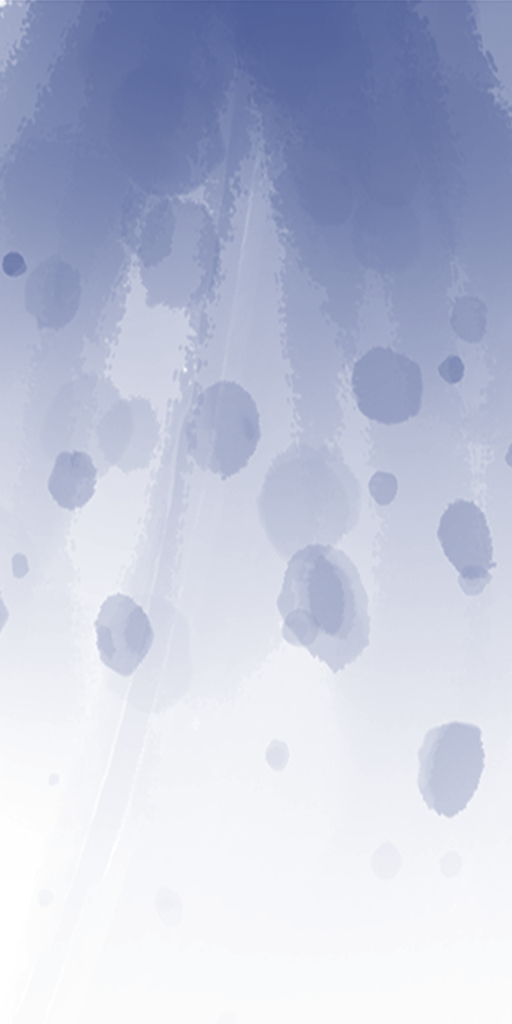
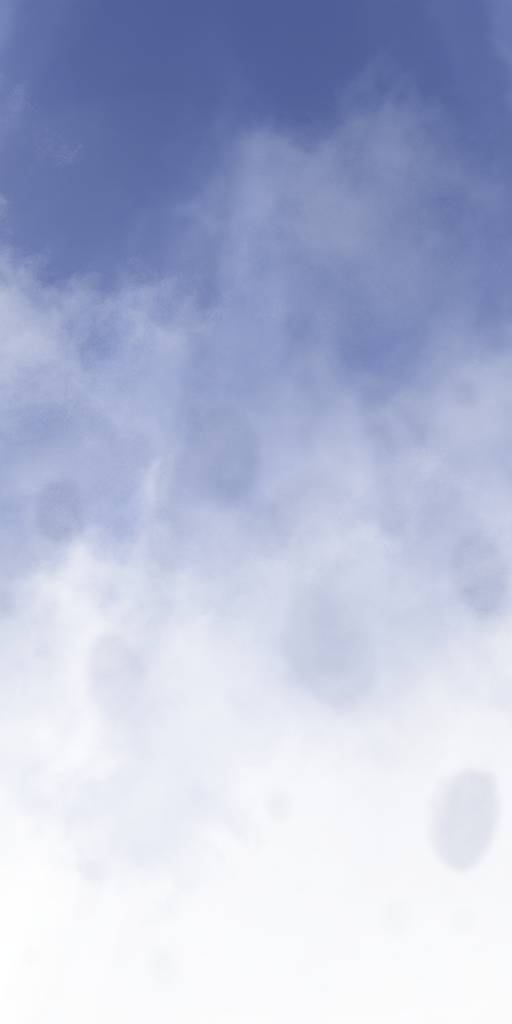
update textures and colors for sarah

diff --git a/app/js/core/props.js b/app/js/core/props.js
@@ -11,7 +11,7 @@ var props = {
   // - hack
   mouseCapture : true,
   showCanvasPetalPattern : false,
-  textureBackgroundColor : [117, 131, 177],
+  textureBackgroundColor : [152, 146, 180],
   // GLOBAL DATA
   objURL : '3d_model/flower.obj',
   rotation : new THREE.Vector3(),
@@ -24,17 +24,17 @@ var props = {
     petalSpringiness : THREE.ImageUtils.loadTexture('tex/petal_springiness.png')
   },
   colors : [
-    [247, 201, 84],
-    [249, 183, 112],
-    [232, 163, 84],
-    [251, 164, 139],
-    [206, 128, 134],
-    [173, 119, 144],
-    [160, 92, 129],
-    [113, 106, 153],
-    [60, 121, 134],
-    [169, 195, 153],
-    [168, 183, 100]
+    [251, 218, 131],  // 0
+    [252, 206, 154],  // 1
+    [243, 195, 139],  // 2
+    [253, 194, 177],  // 3
+    [222, 166, 172],  // 4
+    [194, 156, 178],  // 5
+    [190, 138, 166],  // 6
+    [135, 118, 178],  // 7
+    [105, 156, 166],  // 8
+    [202, 218, 192],  // 9
+    [204, 215, 151]   // 10
   ],
   closedPetalPosition : [
     new THREE.Vector3(0.5, 0, 0),         // 0 - haut / milieu

diff --git a/app/js/components/Petal.js b/app/js/components/Petal.js
@@ -99,7 +99,7 @@ class Petal {
     let forceRotation = dist.multiplyScalar(0.03);
     this.mMesh.rotation.setFromVector3(this.mMesh.rotation.toVector3().add(forceRotation));
   }
-
+  
   // ##########
 	// UPDATING PARAMETERS
 	// ##########
@@ -119,7 +119,7 @@ class Petal {
   _drawTexture(){
     // - Add base
     // -- update base height
-    this.ctx.drawImage(props.imgs.petalBase, 0, 0, TEXTURE_WIDTH, TEXTURE_HEIGHT * utils.getRandomFloat(0.2, 1.2));
+    this.ctx.drawImage(props.imgs.petalBase, 0, 0, TEXTURE_WIDTH, TEXTURE_HEIGHT * utils.getRandomFloat(0.6, 1));
 
     // - Add points
     this.ctx.globalAlpha = props.mood/10;
